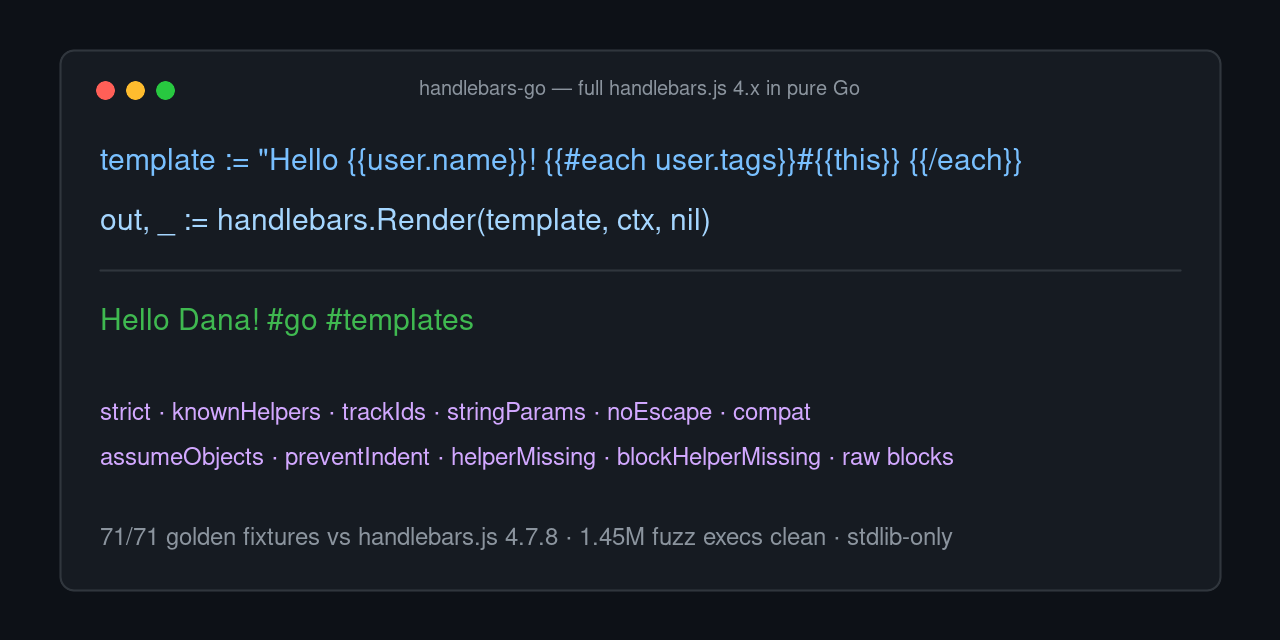
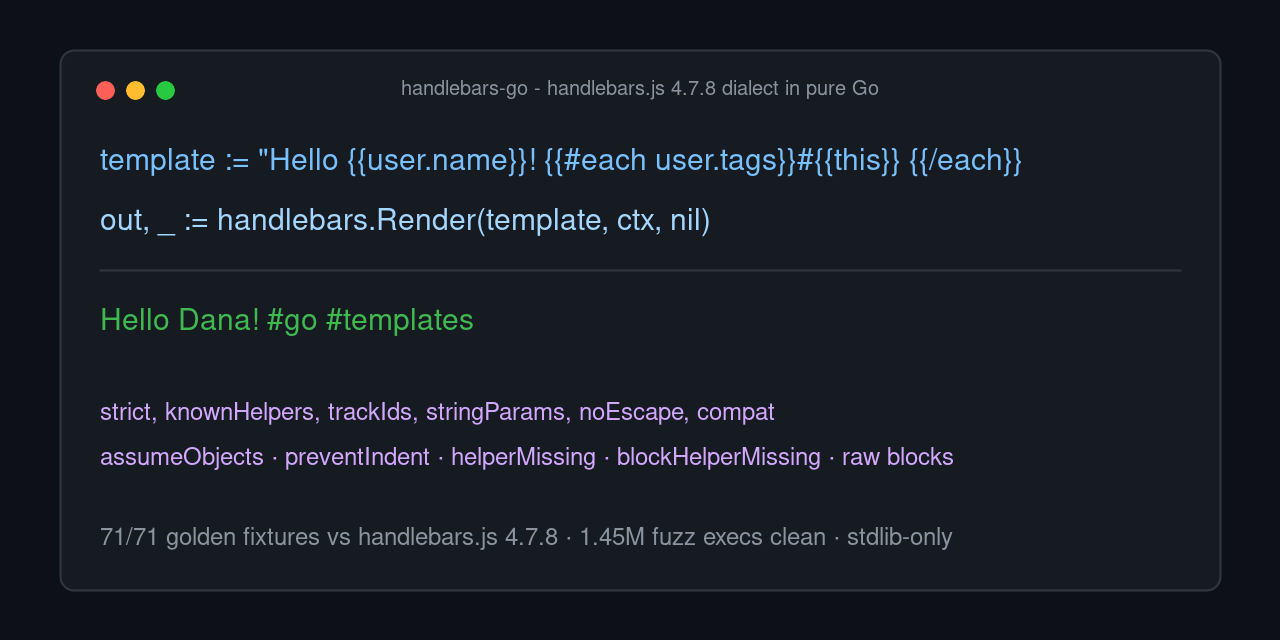
security: partial depth cap, SafeString, __key guard, security_test.go; README: exact 12/14 matrix, named raymond, trust-boundary FAQ, no full/everything claims

Changed region(s): [[0.125, 0.625, 0.6562, 0.6562], [0.3125, 0.125, 0.6875, 0.1562]]

diff --git a/security_test.go b/security_test.go
@@ -1,0 +1,135 @@
+package handlebars
+
+import (
+	"strings"
+	"testing"
+)
+
+// Trust model under test: templates are trusted-author artifacts (whoever
+// writes the template controls helper calls); template DATA may be hostile.
+// Parse+fuzz covers hostile template text; these tests cover the runtime
+// boundary: recursion, amplification, escaping, dangerous keys, helpers.
+
+func TestRecursivePartialBounded(t *testing.T) {
+	self, err := Parse("x{{> self}}")
+	if err != nil {
+		t.Fatal(err)
+	}
+	opts := &Options{Partials: map[string]*Template{"self": self}}
+	_, err = Render("{{> self}}", nil, opts)
+	if err == nil || !strings.Contains(err.Error(), "recursion") {
+		t.Fatalf("want recursion error, got %v", err)
+	}
+}
+
+func TestDeepNestedBlocks(t *testing.T) {
+	// 2000-deep nesting: must not crash; parse recursion is stack-safe.
+	var b strings.Builder
+	for i := 0; i < 2000; i++ {
+		b.WriteString("{{#if ok}}")
+	}
+	b.WriteString("deep")
+	for i := 0; i < 2000; i++ {
+		b.WriteString("{{/if}}")
+	}
+	out, err := Render(b.String(), map[string]any{"ok": true}, nil)
+	if err != nil {
+		t.Fatal(err)
+	}
+	if out != "deep" {
+		t.Fatal(out)
+	}
+}
+
+func TestAmplificationBoundedByData(t *testing.T) {
+	// 100k-iteration each: completes; output is proportional to data size.
+	// There is no built-in output cap - callers rendering hostile data must
+	// bound the data (documented in the safety FAQ).
+	items := make([]string, 100000)
+	for i := range items {
+		items[i] = "x"
+	}
+	out, err := Render("{{#each items}}x{{/each}}", map[string]any{"items": items}, nil)
+	if err != nil {
+		t.Fatal(err)
+	}
+	if len(out) != 100000 {
+		t.Fatal(len(out))
+	}
+}
+
+func TestReservedKeysNotAccessible(t *testing.T) {
+	ctx := map[string]any{"__proto__": "polluted", "safe": "ok"}
+	if got := render(t, "[{{__proto__}}][{{safe}}]", ctx, nil); got != "[][ok]" {
+		t.Fatal(got)
+	}
+}
+
+func TestEscapeByDefaultAndBypasses(t *testing.T) {
+	ctx := map[string]any{"h": "<script>alert(1)</script>"}
+	if got := render(t, "{{h}}", ctx, nil); !strings.Contains(got, "&lt;script&gt;") {
+		t.Fatal(got)
+	}
+	// triple-stache bypasses (documented, matches handlebars.js)
+	if got := render(t, "{{{h}}}", ctx, nil); got != "<script>alert(1)</script>" {
+		t.Fatal(got)
+	}
+	// SafeString bypasses (documented)
+	opts := &Options{Helpers: map[string]Helper{
+		"raw": func(c *HelperCall) (any, error) { return SafeString("<b>ok</b>"), nil },
+	}}
+	if got := render(t, "{{raw}}", ctx, opts); got != "<b>ok</b>" {
+		t.Fatal(got)
+	}
+}
+
+func TestMissingHelperErrors(t *testing.T) {
+	// call-shaped unknown name errors (never silently empty)
+	if _, err := Render("{{ghost 1}}", map[string]any{}, nil); err == nil {
+		t.Fatal("want unknown-helper error")
+	}
+	// strict mode: missing field errors
+	if _, err := Render("{{missing}}", map[string]any{}, &Options{Strict: true}); err == nil {
+		t.Fatal("want strict error")
+	}
+	// knownHelpersOnly: unlisted helper errors even if registered
+	opts := &Options{
+		KnownHelpersOnly: true,
+		KnownHelpers:     map[string]bool{"other": true},
+		Helpers:          map[string]Helper{"h": func(c *HelperCall) (any, error) { return "x", nil }},
+	}
+	if _, err := Render("{{h 1}}", map[string]any{}, opts); err == nil {
+		t.Fatal("want knownHelpersOnly error")
+	}
+}
+
+func TestHelperRunsWithCallerPrivileges(t *testing.T) {
+	// Documents the boundary: a helper CAN run arbitrary code (here: records
+	// a call). Templates choose helpers; treat template text as code-author
+	// trust, exactly like handlebars.js.
+	called := false
+	opts := &Options{Helpers: map[string]Helper{
+		"sideEffect": func(c *HelperCall) (any, error) { called = true; return nil, nil },
+	}}
+	if _, err := Render("{{sideEffect}}", map[string]any{}, opts); err != nil {
+		t.Fatal(err)
+	}
+	if !called {
+		t.Fatal("helper should have run")
+	}
+}
+
+type methodDoc struct{ secret string }
+
+func (m methodDoc) Secret() string { return m.secret }
+
+func TestStructMethodResolution(t *testing.T) {
+	// Documents that exported zero-arg methods on data structs are callable
+	// from templates (raymond-compatible behavior). Pass only data you are
+	// comfortable exposing; do not hand templates structs with dangerous
+	// methods.
+	out := render(t, "{{Secret}}", methodDoc{secret: "visible"}, nil)
+	if out != "visible" {
+		t.Fatal(out)
+	}
+}

diff --git a/eval.go b/eval.go
@@ -77,9 +77,14 @@ func (s *state) execMustache(b *strings.Builder, n *MustacheNode, f *Frame) erro
 	if err != nil {
 		return err
 	}
-	out := stringify(v)
-	if !n.Unescaped && !s.opts.NoEscape {
-		out = escapeHTML(out)
+	var out string
+	if ss, ok := v.(SafeString); ok {
+		out = string(ss) // explicitly marked safe; skips escaping like handlebars.js
+	} else {
+		out = stringify(v)
+		if !n.Unescaped && !s.opts.NoEscape {
+			out = escapeHTML(out)
+		}
 	}
 	b.WriteString(out)
 	return nil
@@ -204,7 +209,17 @@ func (s *state) renderSection(b *strings.Builder, n *BlockNode, v any, f *Frame)
 	return s.execProgram(b, n.Inverse, f)
 }
 
+// maxPartialDepth bounds partial recursion. Recursive partials are legal in
+// handlebars (tree rendering), so they work here up to this depth; beyond it
+// Render returns an error instead of exhausting the goroutine stack.
+const maxPartialDepth = 100
+
 func (s *state) execPartial(b *strings.Builder, n *PartialNode, f *Frame) error {
+	if s.depth >= maxPartialDepth {
+		return &TemplateError{Msg: fmt.Sprintf("partial recursion deeper than %d (recursive partials are supported up to this depth)", maxPartialDepth)}
+	}
+	s.depth++
+	defer func() { s.depth-- }()
 	name := n.Name
 	if n.DynamicName != nil {
 		v, err := s.evalExpr(n.DynamicName, f)
@@ -479,6 +494,9 @@ func resolveParts(v any, parts []string) (any, bool) {
 		}
 		switch rv.Kind() {
 		case reflect.Map:
+			if strings.HasPrefix(part, "__") {
+				return nil, false // reserved-key guard, parity with handlebars.js __proto__ protection
+			}
 			kv := reflect.ValueOf(part)
 			if kv.Type().AssignableTo(rv.Type().Key()) {
 				mv := rv.MapIndex(kv)

diff --git a/template.go b/template.go
@@ -2,6 +2,11 @@ package handlebars
 
 import "strings"
 
+// SafeString marks a helper return value as already-safe HTML, bypassing
+// escaping - the same contract as Handlebars.SafeString in handlebars.js.
+// Only wrap content you have already sanitized.
+type SafeString string
+
 // Template is a compiled handlebars template. Safe for concurrent Execute.
 type Template struct {
 	src  string

diff --git a/README.md b/README.md
@@ -2,16 +2,16 @@
 
 ![handlebars-go](assets/hero.png)
 
-The Go handlebars port everyone reaches for lists **14 unimplemented options and features in its own README**, and its last code commit was in 2018. This library implements them.
+[aymerick/raymond](https://github.com/aymerick/raymond), the 643-star Go Handlebars port, lists **14 unimplemented options and features in its own README**, and its last code commit was in 2018. `handlebars-go` implements 12 of the 14 and names the 2 it does not (see the matrix below).
 
-`handlebars-go` renders [Handlebars](https://handlebarsjs.com/) templates in pure Go, differentially tested against handlebars.js 4.7.8 itself. Stdlib-only, no dependencies.
+It renders [Handlebars](https://handlebarsjs.com/) templates in pure Go, differentially tested against handlebars.js 4.7.8 itself. Stdlib-only, no dependencies.
 
 ## What it does
 
-- **Full option surface**: `strict`, `noEscape`, `compat`, `knownHelpers`, `knownHelpersOnly`, `assumeObjects`, `preventIndent`, `stringParams`, `trackIds`: the nine options raymond's README says it never implemented.
+- **All nine documented option flags**: `strict`, `noEscape`, `compat`, `knownHelpers`, `knownHelpersOnly`, `assumeObjects`, `preventIndent`, `stringParams`, `trackIds`: the nine options raymond's README says it never implemented.
 - **The missing hooks**: `helperMissing` and `blockHelperMissing`, plus raw blocks (`{{{{helper}}}}...{{{{/helper}}}}` with the body passed verbatim).
 - **Differentially tested**: 71 golden fixtures generated from **handlebars.js 4.7.8** (see `testdata/gen/`) covering interpolation, paths, sections, inverted sections, `each`/`with`/`if`/`unless`/`lookup`, subexpressions, partials (context, hash, indentation, nested), whitespace control, standalone lines, comments, `@root`, `@index`/`@key`/`@first`/`@last`, block params, and the option flags above. The test suite renders every fixture and compares byte-for-byte.
-- **Fuzz-verified parser**: `go fuzz` ran 1.45M generated inputs with zero panics (it did find two real bugs before that, both fixed). That's test evidence, not a proof.
+- **Fuzz-verified parser**: `go fuzz` ran 1.45M generated inputs with zero panics (it found a real nil-pointer bug before that, fixed and regression-covered). That's test evidence, not a proof.
 - **Typed errors**: `TemplateError` names the line and column and quotes the offending text.
 - **Fast enough to template in hot paths**: rendering `"Hello {{user.name}}! {{#each user.tags}}…"` measured 5.0µs/op, parsing the same template 6.1µs/op (BenchmarkExecute/BenchmarkParse, GitHub-hosted runner class machine; see `bench_test.go`).
 - **HTML-escapes by default** with handlebars.js' exact escape map (`& < > " ' \` =`); `{{{triple}}}`, `{{& amp}}`, or `noEscape` to bypass.
@@ -19,7 +19,7 @@ The Go handlebars port everyone reaches for lists **14 unimplemented options and
 ## What it doesn't do
 
 - **Decorators, inline partials, and partial-block**: not implemented yet (`{{#* inline}}` and `{{> @partial-block}}` are parse errors for now).
-- **`@level` / log levels**: a plain `log` helper ships; the level plumbing does not.
+- **`@contextPath` and `@level`**: the two raymond-limitation items this library also does not implement (the trackIds metadata var and log-level plumbing). A plain `log` helper ships.
 - **JS insertion-order map iteration**: Go maps have no insertion order, so `{{#each}}` over a map iterates **sorted keys**. Named dialect difference: handlebars.js preserves insertion order.
 - **No default `raw` helper**: same as handlebars.js. Register the shipped one explicitly: `handlebars.RawHelper`.
 - **Not a raymond API clone**: similar shape (`Parse`/`Execute`/`Render`), not a drop-in replacement.
@@ -82,7 +82,26 @@ _, err := handlebars.Render("{{user.nmae}}", ctx, opts) // typo caught at render
 
 ## Compared to raymond
 
-[aymerick/raymond](https://github.com/aymerick/raymond) (tested at commit `7c01a03`, 643 stars) is the incumbent. Its README's own *Limitations* section lists the nine options and five features above as not implemented; its last code commit is from March 2018. Everything in its limitations list works here, and the behavior that does overlap is verified against handlebars.js 4.7.8 rather than self-authored expectations.
+[aymerick/raymond](https://github.com/aymerick/raymond) (tested at commit `7c01a03`, 643 stars) is the incumbent. Its README's own *Limitations* section lists nine options and five features as not implemented; its last code commit is from March 2018. Here is every item, honestly:
+
+| raymond README limitation | handlebars-go | Verified by |
+|---|---|---|
+| `strict` option | implemented | golden `missing-strict` |
+| `noEscape` | implemented | golden `interp-noescape-opt` |
+| `compat` (recursive lookup) | implemented | goldens `compat-recursive`, `no-compat-no-recursive` |
+| `knownHelpers` | implemented | unit `TestKnownHelpers` |
+| `knownHelpersOnly` | implemented | golden `known-helpers-only` |
+| `trackIds` | implemented | unit `TestTrackIds` |
+| `assumeObjects` | implemented | golden `assume-objects` |
+| `preventIndent` | implemented | golden `partial-prevent-indent` |
+| `stringParams` | implemented | golden `string-params` |
+| raw block content param | implemented | golden `raw-block` (register `RawHelper`) |
+| `blockHelperMissing` hook | implemented | golden `block-helper-missing-hook` |
+| `helperMissing` hook | implemented | golden `helper-missing-hook` |
+| `@contextPath` (trackIds mode) | **not implemented** | listed in What it doesn't do |
+| `@level` / log levels | **not implemented** | listed in What it doesn't do |
+
+12 of 14. Where behavior overlaps with raymond, this library verifies against handlebars.js 4.7.8 itself (golden fixtures), not self-authored expectations.
 
 ## Differential testing
 
@@ -113,7 +132,14 @@ Yes: `&handlebars.Options{Strict: true}` turns missing fields into `TemplateErro
 
 <details>
 <summary><b>Is it safe to render untrusted templates?</b></summary>
-The parser is fuzz-verified (1.45M generated inputs, zero panics) and all errors are typed. HTML output is escaped by default with handlebars.js' exact escape map. Like any template engine, helpers you register run with your program's privileges, so treat custom helpers as code. This library is early-stage and has not been independently audited.
+
+The trust boundary, plainly:
+
+- **Template text = code-author trust.** A template names helpers and partials, and helpers run with your program's privileges (verified in `security_test.go`). `{{triple}}` / `{{& amp}}` / `SafeString` bypass HTML escaping by design. Do not render template text authored by an untrusted party. There is no sandbox and this library makes no sandbox claim.
+- **Template data may be hostile.** All value output is escaped by default with handlebars.js' exact escape map. Map keys beginning with `__` are not accessible (parity with handlebars.js' `__proto__` guard). Exported zero-arg methods on data structs ARE callable from templates (raymond-compatible), so pass only data you are comfortable exposing.
+- **Hostile template TEXT**: the parser is fuzz-verified (1.45M generated inputs, zero panics) and errors are typed with line/column. Recursive partials stop at depth 100 with an error; 2000-deep nested blocks are covered by test.
+- **No resource caps.** Output size and loop counts are bounded by your data, not by the engine (a 100k-iteration `each` will produce 100k iterations of output). If data size is attacker-controlled, bound it before rendering.
+- Early-stage library; not independently audited.
 </details>
 
 <details>
